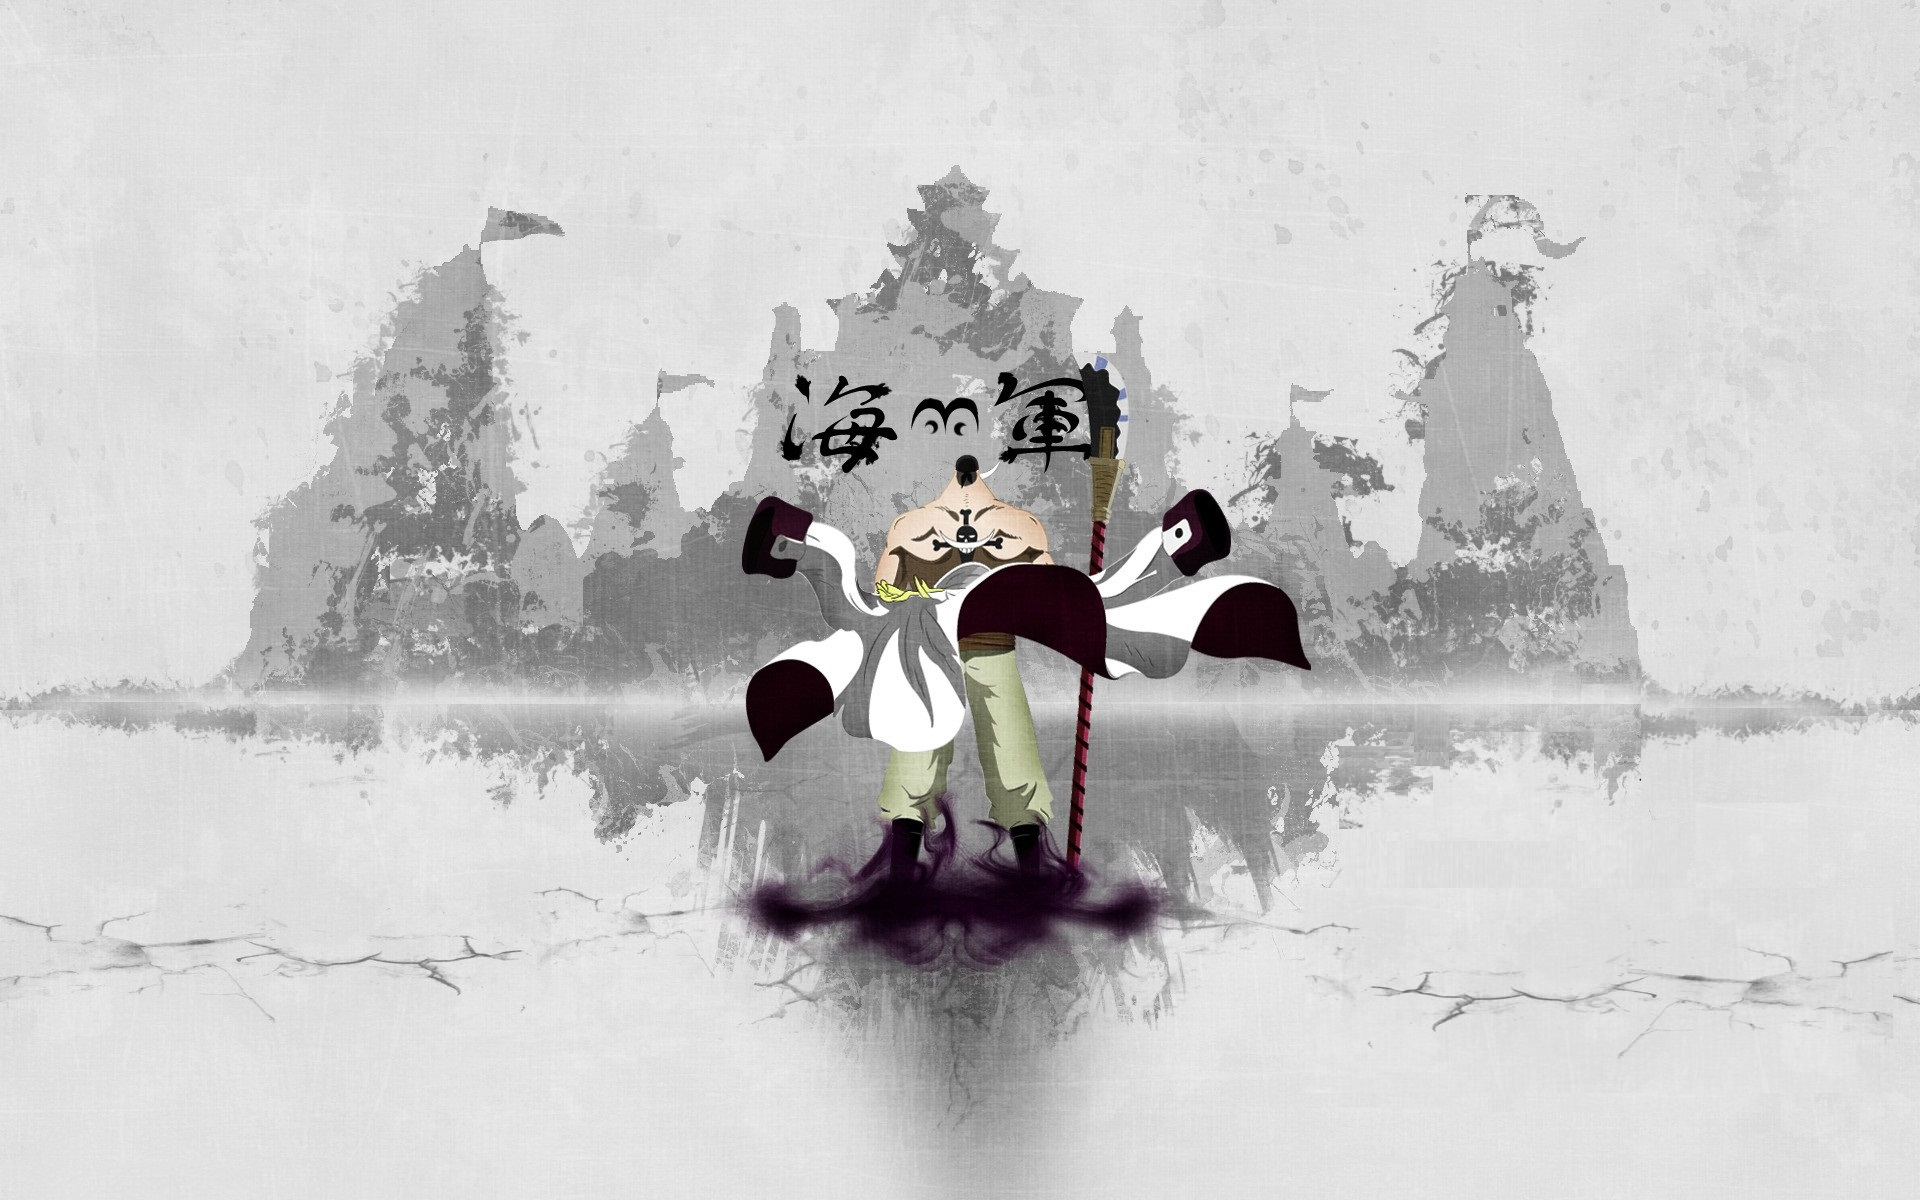
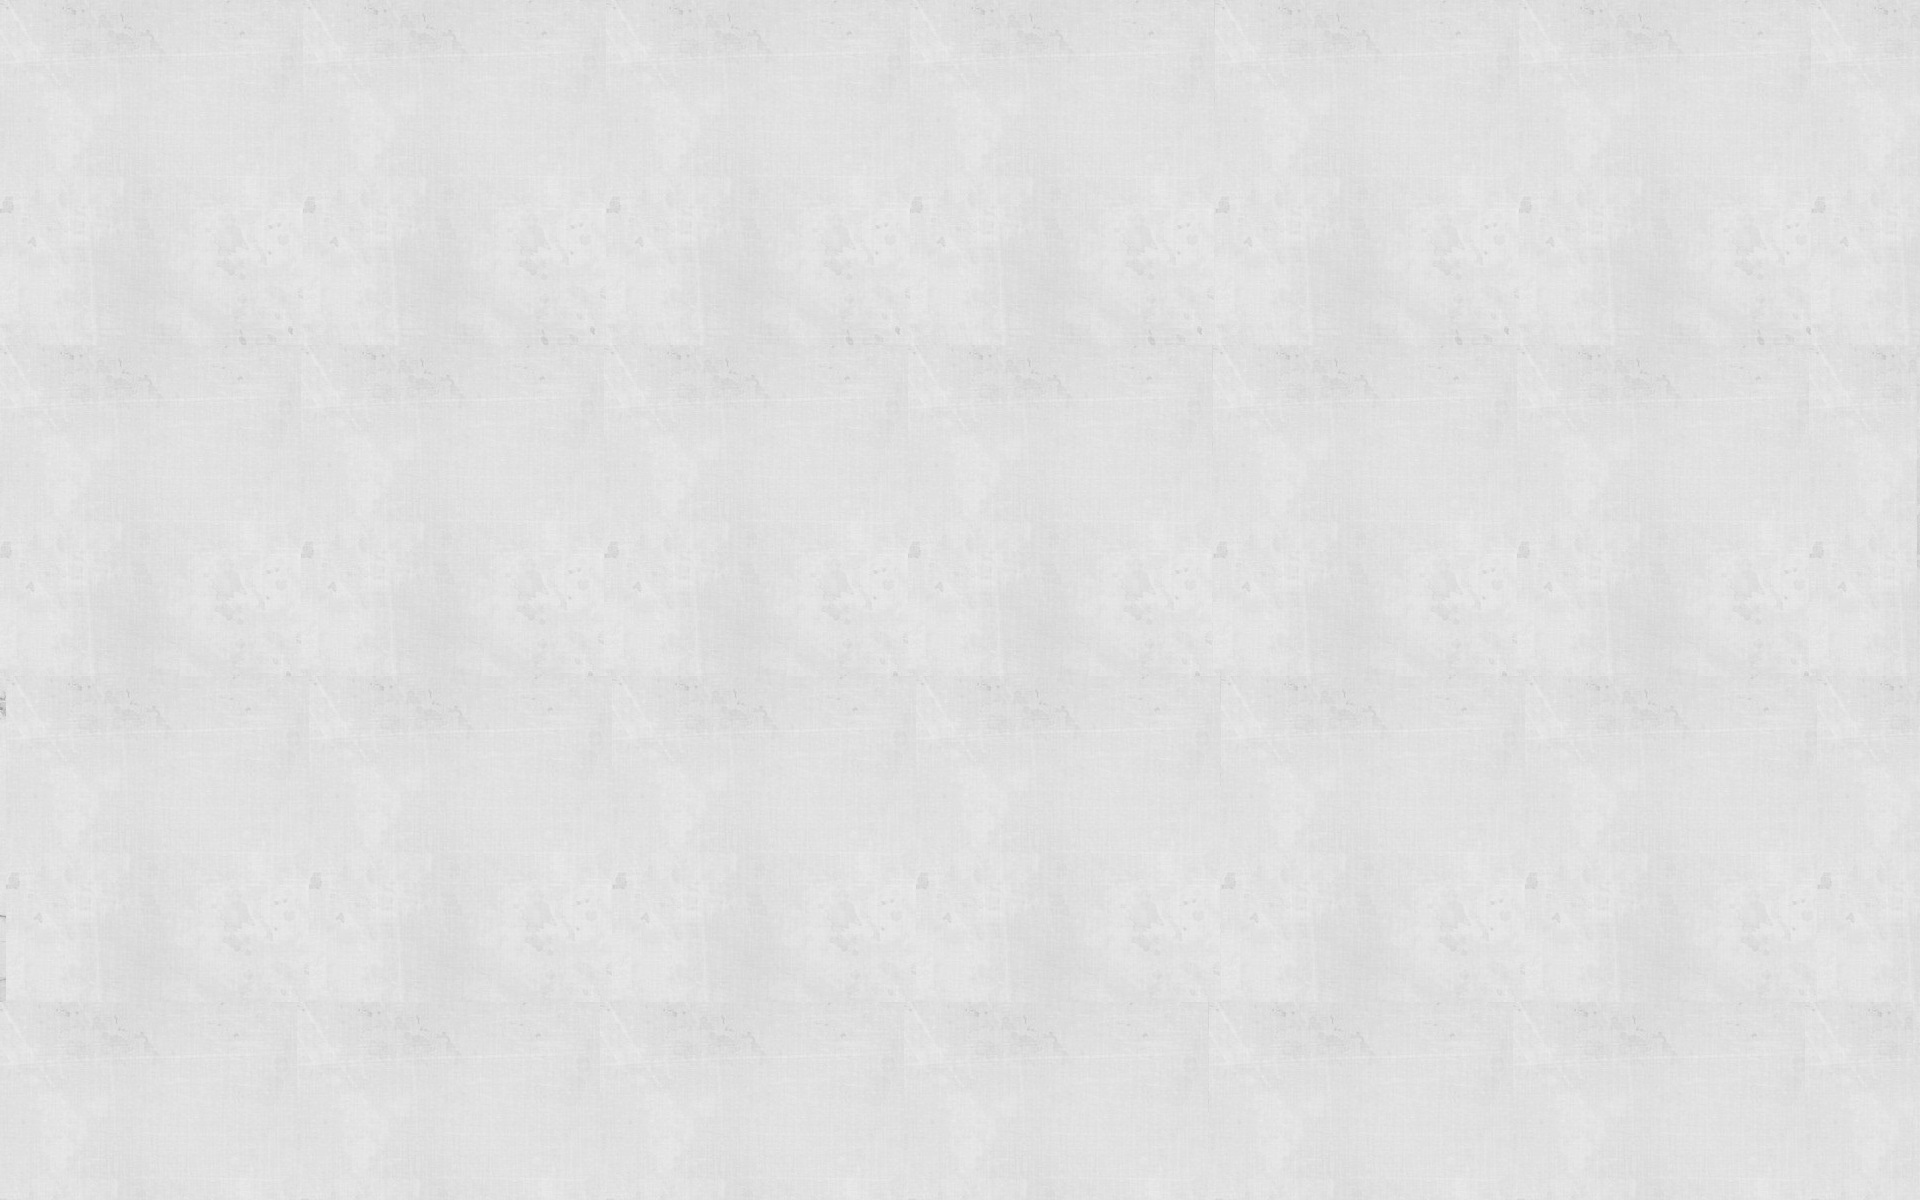
完善配置对应的功能，初步完成已有配置的实际作用配置

diff --git a/BesImage/mainwindow.cpp b/BesImage/mainwindow.cpp
@@ -71,6 +71,9 @@ void MainWindow::ApplyAppConfig()
 
     /* 先使用程序的默认设置项来设置程序 */
 
+    if(param.functionMode == FUNCTION_FULL) //全功能模式下，所有允许的自定义参数设为默认值
+        param.ClearUserCustomParameter();
+
     //设置背景图片
     setCurBGPic(param.defaultBackgroundPath);
 
@@ -88,12 +91,21 @@ void MainWindow::ApplyAppConfig()
         //不显示返回按钮
          topWidget.m_toolbar.btnReturn.setVisible(false);
 
-         //其他逻辑，在 上面 midWidget.pageSelect.SetFileTreeRootPath(param.initPath); 之后
+         //其它显示隐藏逻辑，在 上面 midWidget.pageSelect.SetFileTreeRootPath(param.initPath); 之后
          //    首先触发 showImgUnderTreeItem(rootIndex);
          //        然后 其中 LoadFloder(path); 载入列表时
          //             判断单个文件时，是IsValidOnlyShowOneImage ，则emit(OnSelectOnePath(path));
          //                 从而触发相关信号自动改变部分控件
     }
+
+    if(param.closeDirTreeOnOpen)
+    {
+        midWidget.pageSelect.OnBtnTreeToggle();
+    }
+
+    setCurBGPicIfValid(param.backgroundImagePath);
+
+    topWidget.SetIconIfPathValid(param.iconPath);
 }
 
 void MainWindow::clearBackground()
@@ -101,6 +113,7 @@ void MainWindow::clearBackground()
     m_mainwid.clearBg();
 }
 
+//直接设置背景图片
 inline void MainWindow::setCurBGPic(const QString& path)
 {
     //使用相对路径尝试构建出有效路径，如果无法构建出存在的文件路径，使用系统默认资源
@@ -112,6 +125,18 @@ inline void MainWindow::setCurBGPic(const QString& path)
         imagePath = QCoreApplication::applicationDirPath() +"/"+ path;
 
    m_mainwid.setCurBGPic(imagePath);
+}
+
+//在路径有效时设置背景图片
+void MainWindow::setCurBGPicIfValid(const QString& path)
+{
+    QFileInfo fi(path);
+    if(fi.isFile())
+    {
+        QPixmap pixmap = QPixmap(path);
+        if(!pixmap.isNull())
+            setCurBGPic(path);
+    }
 }
 
 void MainWindow::OnWindowHeaderDbClick(QMouseEvent *e)

diff --git a/BesImage/middleWidget/pageSelectImage.cpp b/BesImage/middleWidget/pageSelectImage.cpp
@@ -23,7 +23,7 @@ PageSelectImage::PageSelectImage(QWidget *parent) : baseWidget(parent),
 
     connect(&fileTree,SIGNAL(clicked(const QModelIndex&)),this,SLOT(showImgUnderTreeItem(const QModelIndex&)));
 
-    connect(&m_btnhidelist,SIGNAL(clicked(bool)),this,SLOT(slot_btnclicked()));
+    connect(&m_btnhidelist,SIGNAL(clicked(bool)),this,SLOT(OnBtnTreeToggle()));
 
     connect(&imageList, SIGNAL(doubleClicked(QModelIndex)),this, SLOT(OnClickImgItem(QModelIndex)));
 
@@ -290,7 +290,7 @@ void PageSelectImage::showImgUnderTreeItem(const QModelIndex &index)
     LoadFloder(path);
 }
 
-void PageSelectImage::slot_btnclicked()
+void PageSelectImage::OnBtnTreeToggle()
 {
     if(fileTree.isHidden())//如果是隐藏的
     {

diff --git a/BesImage/middleWidget/pageSelectImage.h b/BesImage/middleWidget/pageSelectImage.h
@@ -51,7 +51,7 @@ public Q_SLOTS:
 
     virtual void wheelEvent(QWheelEvent *event);
 
-    void slot_btnclicked();
+    void OnBtnTreeToggle();
 
     void OnClickImgItem(const QModelIndex &index);
 
@@ -63,8 +63,6 @@ public Q_SLOTS:
     void OnSelectOnePath(QString imagePath);                            //选中一个显示的路径
     void OnSelectBunchPath(QVector<QString> vecImagePath, int curSel);  //选中整个路径集合
     void OnSelectIndexInSet(int curSel);                                //选中集合中的某个下标
-
-
 
 private:
     QTreeView fileTree;             //文件树

diff --git a/BesImage/topWidget/topwidgets.h b/BesImage/topWidget/topwidgets.h
@@ -23,6 +23,7 @@ public:
     //设置黑白图标路径，路径可以是运行目录相对路径 或 绝对路径
     void SetIcon(QString iconBlackPath,QString iconWhitePath);
     void SetIcon(QIcon iconBlack, QIcon iconWhite);               //设置黑色白色2个颜色的Icon
+    void SetIconIfPathValid(const QString&);                      //在路径有效时设置图标
     void SetTitle(QString title);                                 //设置标题
     void SetColorBlackOrWhite(bool setBlack);                     //设置整体颜色白色或黑色
 

diff --git a/BesImage/appConfig.h b/BesImage/appConfig.h
@@ -56,6 +56,16 @@ public:
             besimageWhiteIcon = "resource/default/besimage-white.ico";
             isWindowHeaderColorBlack = true;
         }
+
+        void ClearUserCustomParameter()
+        {
+            appTitle = "BesImage";
+            iconPath = "";
+            backgroundImagePath = "";
+            initPath = "";
+            onlyShowOneImage = false;
+            closeDirTreeOnOpen = false;
+        }
 };
 
 class AppConfig: public QObject{

diff --git a/BesImage/topWidget/topwidgets.cpp b/BesImage/topWidget/topwidgets.cpp
@@ -53,6 +53,18 @@ void TopWidgets::SetIcon(QIcon iconBlack, QIcon iconWhite)
     m_iconWhite = iconWhite;
 }
 
+//在路径有效时设置图标
+void TopWidgets::SetIconIfPathValid(const QString& path)
+{
+    QFileInfo fi(path);
+    if(fi.isFile())
+    {
+        QIcon icon = QIcon(path);
+        if(!icon.isNull())
+            m_btnIcon.setIcon(icon);
+    }
+}
+
 //设置标题
 void TopWidgets::SetTitle(QString title)
 {

diff --git a/BesImage/mainwindow.h b/BesImage/mainwindow.h
@@ -29,7 +29,8 @@ private:
 
     void clearBackground();
 
-    void setCurBGPic(const QString&);
+    void setCurBGPic(const QString&);           //直接设置背景图片
+    void setCurBGPicIfValid(const QString&);    //在路径有效时设置背景图片
 
 public slots:
 
